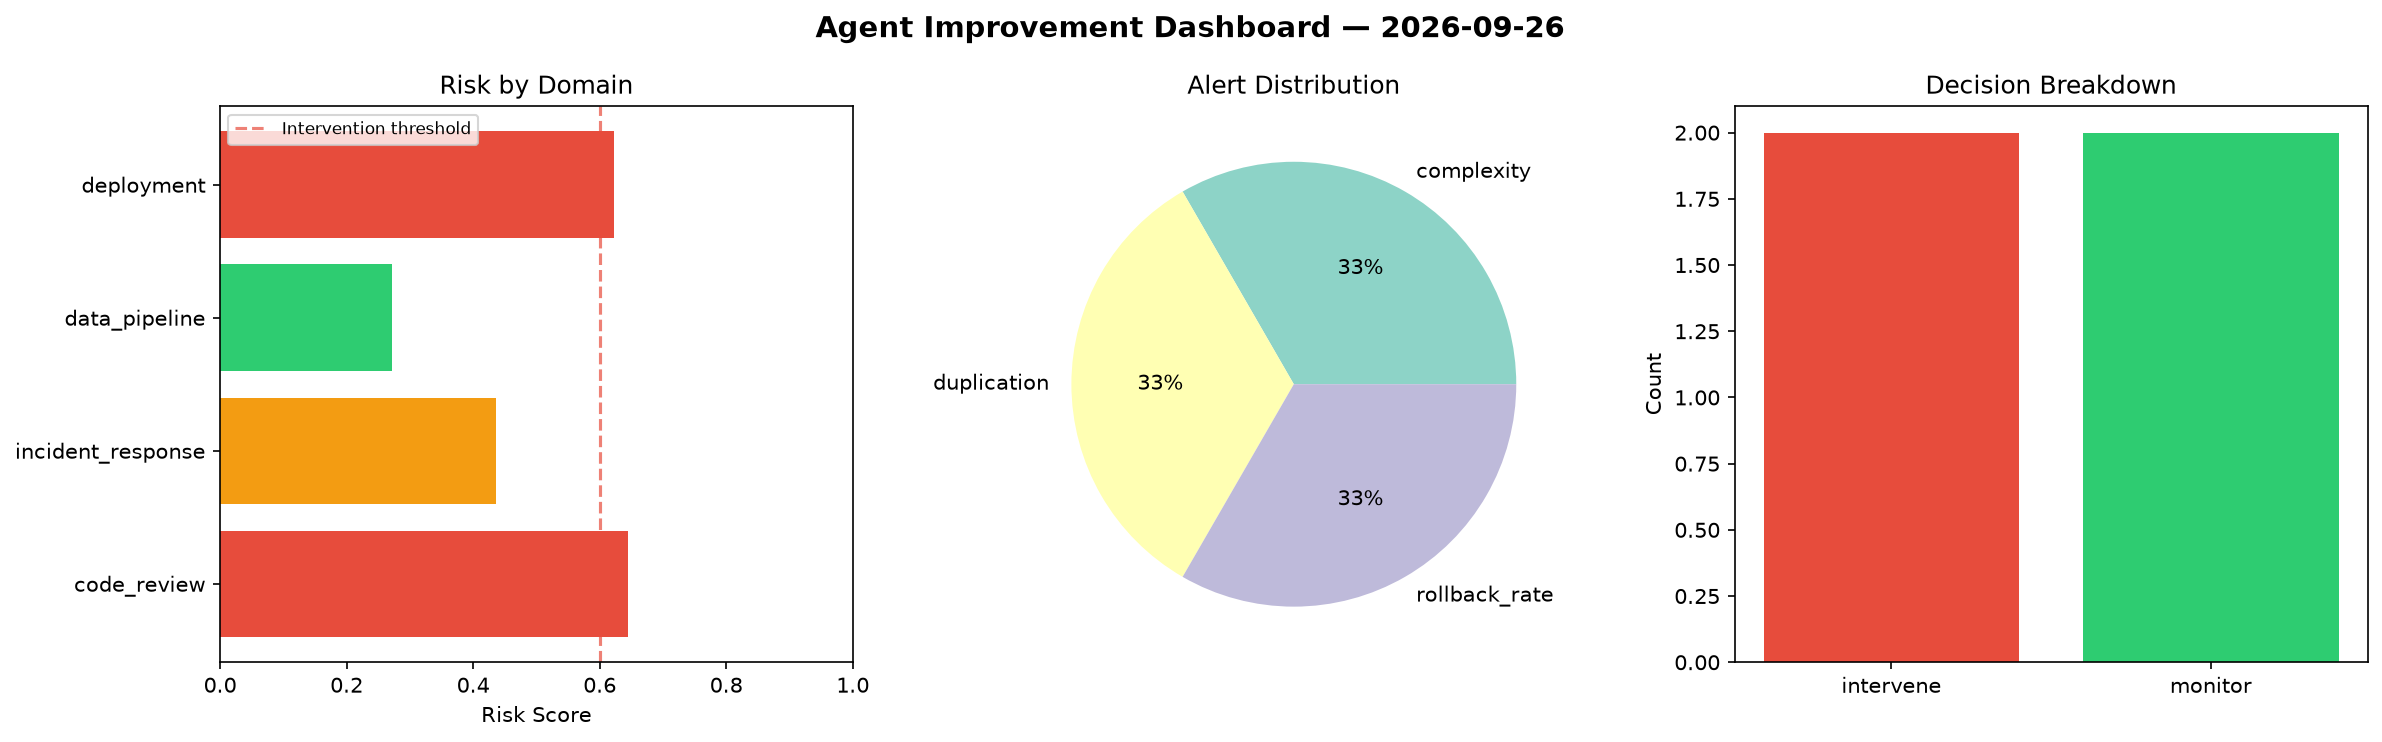
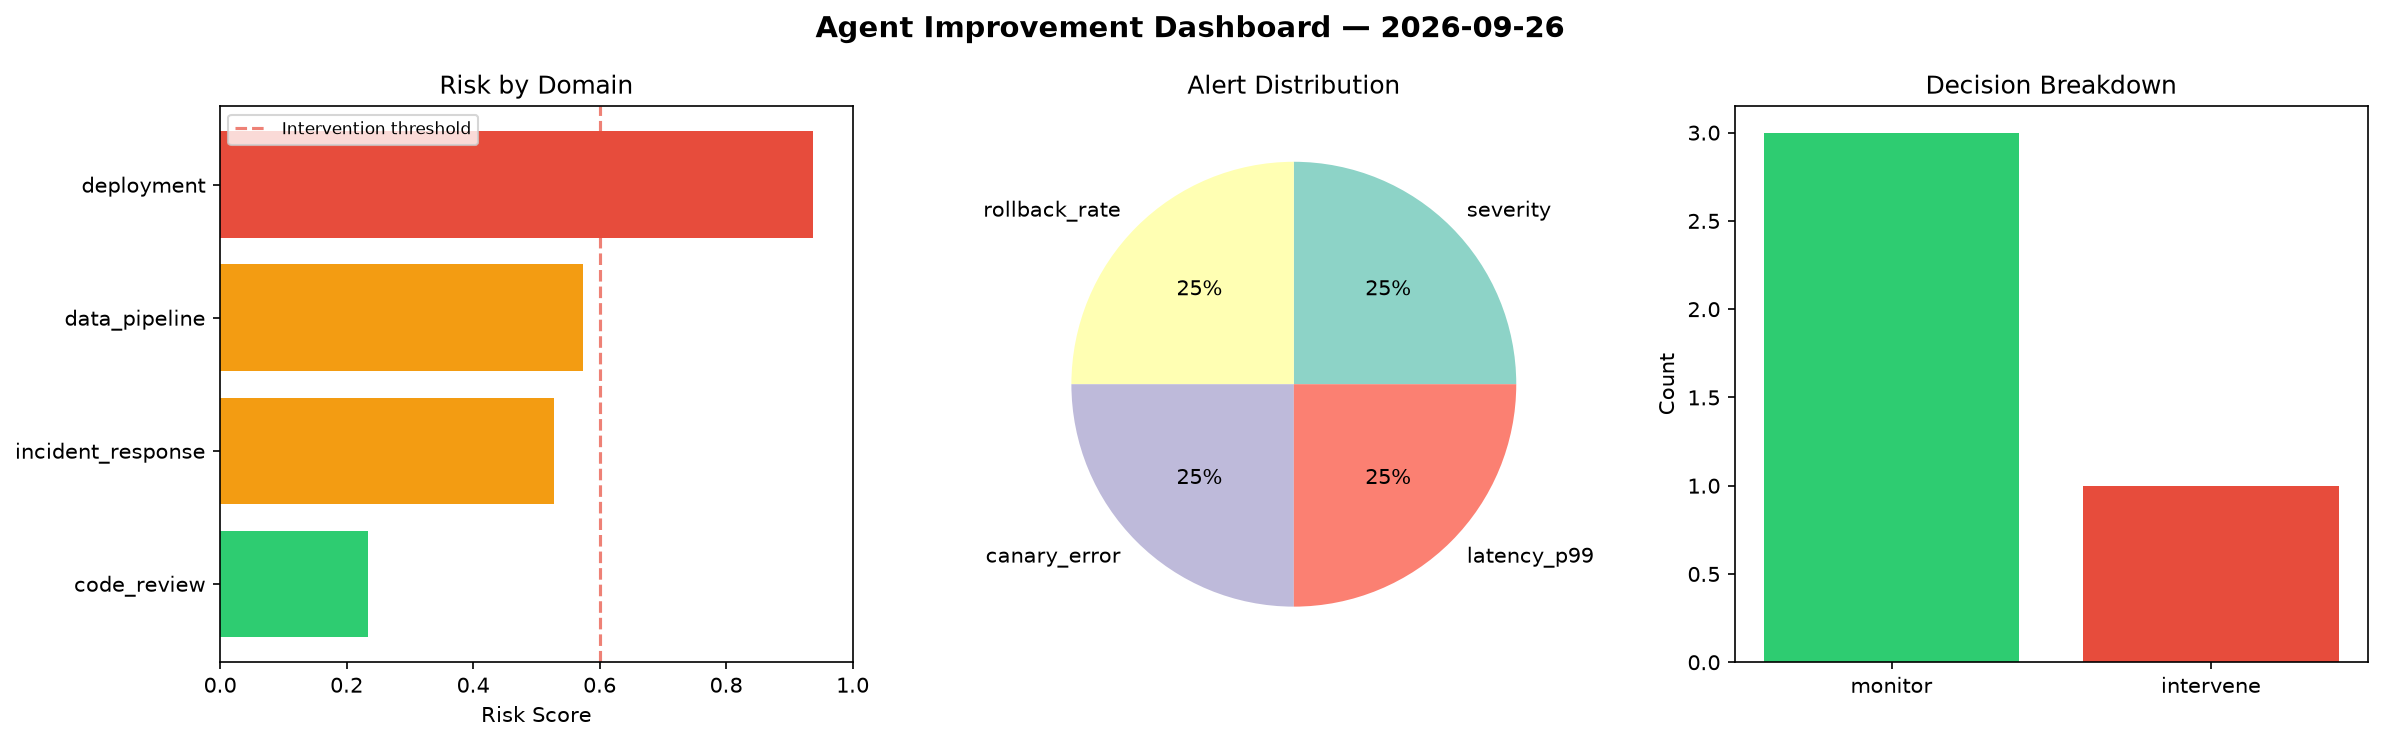
agent-improvement: daily cycle 2026-09-26T13:05

diff --git a/logs/2026-09-26.md b/logs/2026-09-26.md
@@ -1,6 +1,6 @@
 # Agent Improvement Report — 2026-09-26
 
-**Cycle ID:** `ea7debde` | **Avg Risk:** 0.4943 | **Interventions:** 2/4
+**Cycle ID:** `5b8d8b6b` | **Avg Risk:** 0.5683 | **Interventions:** 1/4
 
 ![Dashboard](2026-09-26_dashboard.png)
 
@@ -10,18 +10,18 @@
 
 | Domain | Risk Score | Decision | Alerts |
 |--------|-----------|----------|--------|
-| code_review | 0.6454 | intervene | complexity, duplication |
-| incident_response | 0.4366 | monitor | none |
-| data_pipeline | 0.2724 | monitor | none |
-| deployment | 0.623 | intervene | rollback_rate |
+| code_review | 0.2331 | monitor | none |
+| incident_response | 0.5286 | monitor | severity |
+| data_pipeline | 0.5744 | monitor | none |
+| deployment | 0.9369 | intervene | rollback_rate, canary_error, latency_p99 |
 
 ## Delta vs Yesterday
 
 | Domain | Today | Yesterday | Change |
 |--------|-------|-----------|--------|
-| code_review | 0.6454 | 0.5539 | 📈 16.5% |
-| incident_response | 0.4366 | 0.7282 | 📉 -40.0% |
-| data_pipeline | 0.2724 | 0.3813 | 📉 -28.6% |
-| deployment | 0.623 | 0.5558 | 📈 12.1% |
+| code_review | 0.2331 | 0.5539 | 📉 -57.9% |
+| incident_response | 0.5286 | 0.7282 | 📉 -27.4% |
+| data_pipeline | 0.5744 | 0.3813 | 📈 50.6% |
+| deployment | 0.9369 | 0.5558 | 📈 68.6% |
 
-**Refinement:** `{'adjustment': 'maintain', 'trend': 'improving', 'window': 4}`
+**Refinement:** `{'adjustment': 'tighten_thresholds', 'trend': 'degrading', 'window': 4}`
